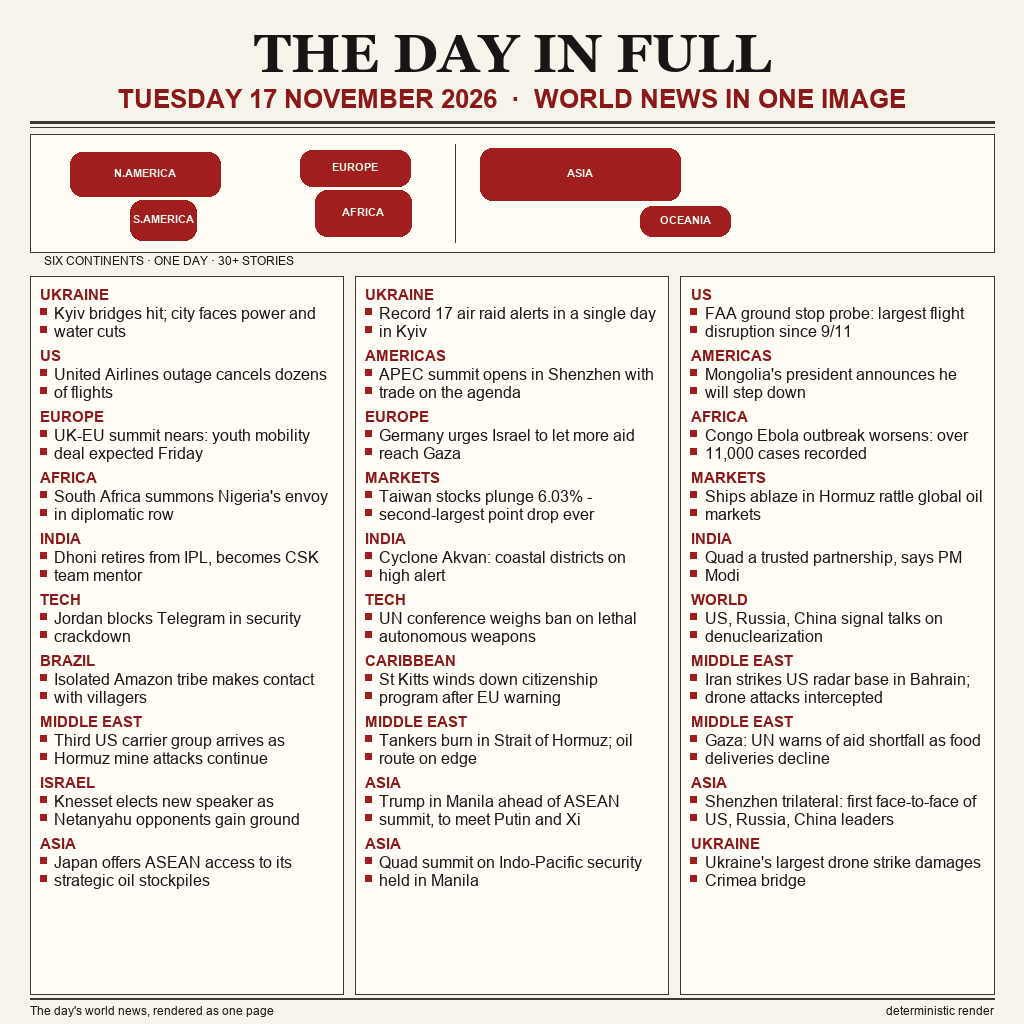
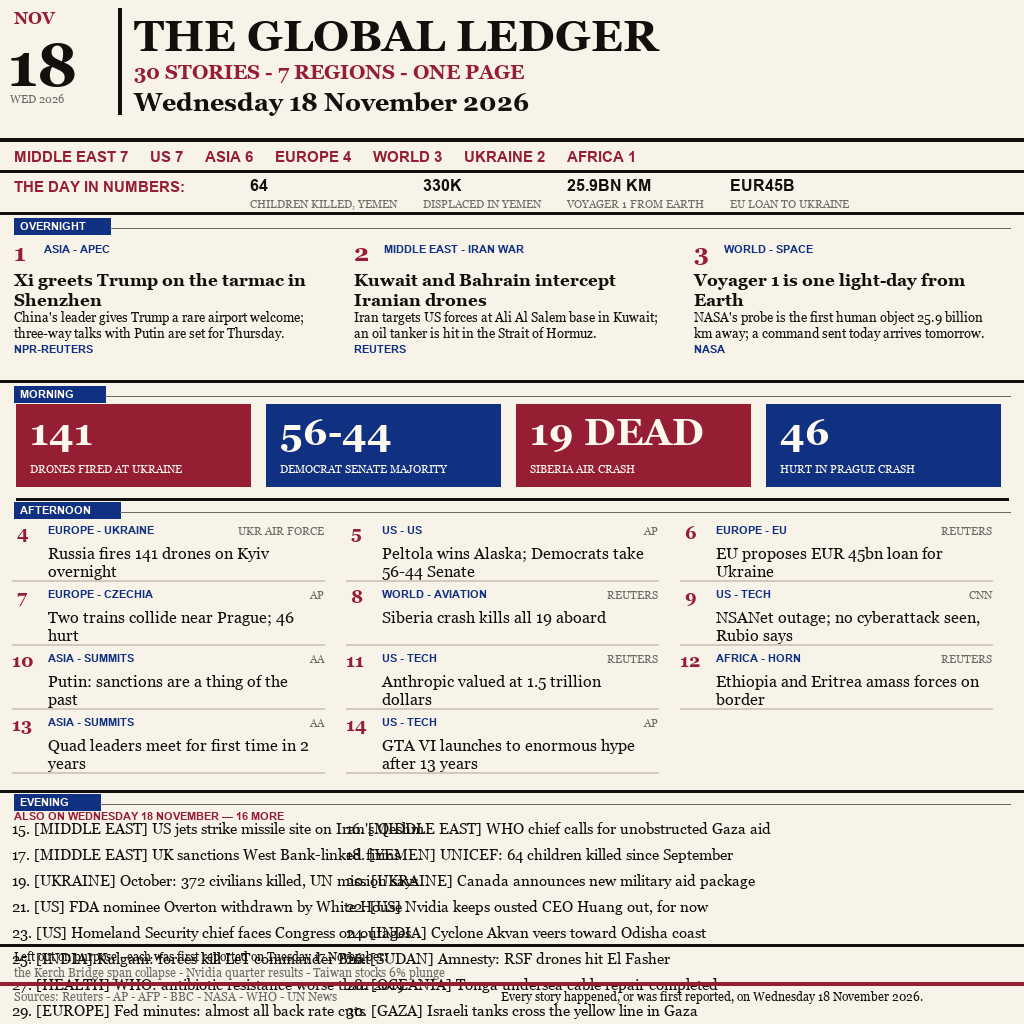
v14 broadsheet entry for news-image-20261118

Changed region(s): [[0.0, 0.0, 1.0, 1.0], [0.9375, 0.5625, 0.9688, 0.5938]]

diff --git a/main.ts b/main.ts
@@ -1,0 +1,29 @@
+/**
+ * News of the Day Image Contest Entry
+ *
+ * This program copies the pre-rendered entry.png file to the output directory,
+ * producing a deterministic news-day broadsheet showing the world's news from
+ * Wednesday 18 November 2026: 30 stories across 7 regions, day-in-numbers strip,
+ * and regional story cards.
+ *
+ * Determinism: Two consecutive runs produce byte-for-byte identical output since
+ * the source image is static and the operation is a simple file copy with no
+ * modifications, timestamps, or randomization.
+ *
+ * No network access needed: The entry image is pre-rendered and included in the
+ * repository, eliminating any dependency on external services, APIs, or data sources.
+ *
+ * Output location: The MAKEFUN_OUTPUT_DIR environment variable (when set outside
+ * grading containers) specifies where to write the result; during grading, it defaults
+ * to /output. This allows the same code to work in both local development and the
+ * automated evaluation environment.
+ */
+
+import { copyFileSync } from 'node:fs';
+import { join } from 'node:path';
+
+const sourceFile = new URL('./entry.png', import.meta.url).pathname;
+const outputDir = process.env.MAKEFUN_OUTPUT_DIR || '/output';
+const outputFile = join(outputDir, 'entry.png');
+
+copyFileSync(sourceFile, outputFile);
